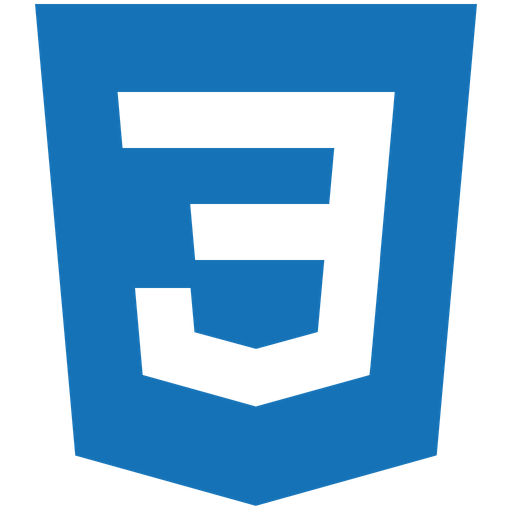
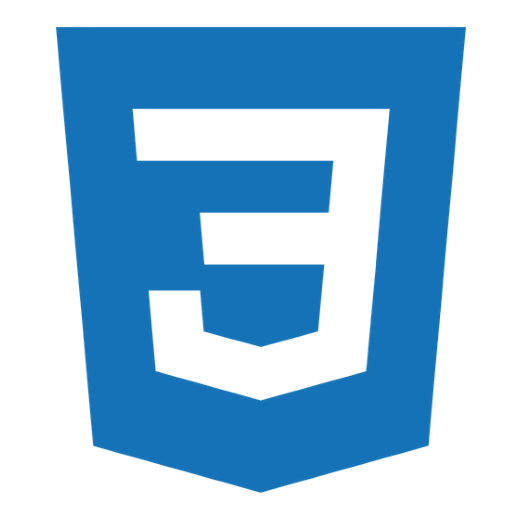
Update skills and image sizing

Changed region(s): [[0.0625, 0.0, 0.9375, 1.0], [0.2188, 0.1562, 0.7812, 0.8125], [0.375, 0.5, 0.6562, 0.6875]]

diff --git a/index.html b/index.html
@@ -168,11 +168,12 @@
             <!-- <div class="skill-item"><img src="images/skills/solidworks.png" alt="Solidworks"><span>Solidworks</span></div> -->
             <div class="skill-item"><img src="images/skills/inventor.png" alt="Inventor"><span>Inventor</span></div>
             <div class="skill-item"><img src="images/skills/arduino.png" alt="Arduino"><span>Arduino</span></div>
+            <div class="skill-item"><img src="images/skills/docker.png" alt="Docker"><span>Docker</span></div>
             <div class="skill-item"><img src="images/skills/matlab.png" alt="MatLab"><span>MatLab</span></div>
             <div class="skill-item"><img src="images/skills/verilog.png" alt="Verilog"><span>Verilog</span></div>
             <div class="skill-item"><img src="images/skills/excel.png" alt="Excel"><span>Excel</span></div>
             <div class="skill-item"><img src="images/skills/premiere.png" alt="Premiere"><span>Premiere Pro</span></div>
-            <div class="skill-item"><img src="images/skills/psd.png" alt="Photoshop"><span>Photoshop</span></div>
+            <!-- <div class="skill-item"><img src="images/skills/psd.png" alt="Photoshop"><span>Photoshop</span></div> -->
         </div>
     </section>
 
